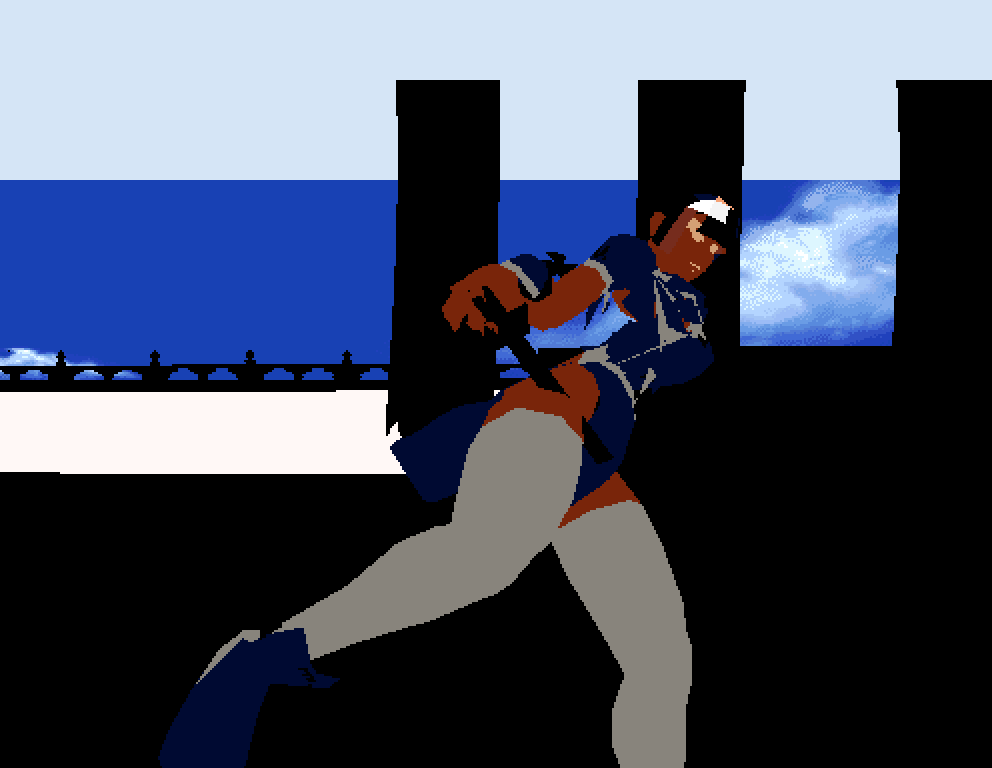
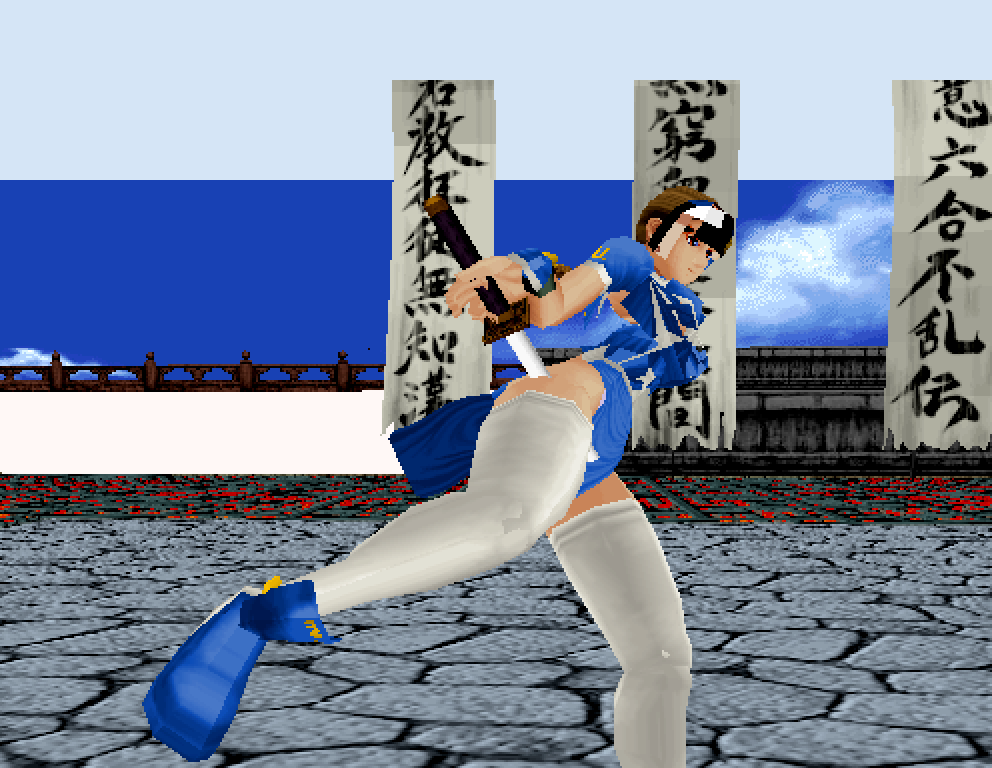
Fix 3D textures: decode luma RAM as half-word-packed array
The 3D layer rendered flat-shaded because every textured pixel resolved to
luma index 0. Luma RAM (0x11400000-0x1140ffff) was mapped as a plain byte
window, but the Model 2B aperture is umask16(0x00ff): one byte per 16-bit
half-word. The i960 writes luma as words, so values landed on even offsets
with zeros interleaved and the renderer's contiguous read
`lumaram[lumabase + (t >> 1)]` always returned 0.

Decode luma explicitly in the read/write entry points with index
`(addr - base) >> 1`, keep the aperture BURST-flagged (as MAME does), and
leave it out of the generic byte-window map. Textured polygons now sample
real luma curves: the 3D layer goes from 10 to 703 unique colors and the
composited title frame from 25 to 718.

Also:
- scripts/fetch_assets.sh no longer downloads doa.zip; users supply their
  own legally obtained ROM set.
- README.md / ROADMAP.md: mark Milestones 6 (3D engine) and 7 (SCSP sound)
  complete; refresh layout and asset notes.
- docs/screenshots/doa_3d_title.png regenerated with textured models.

diff --git a/src/bus.cpp b/src/bus.cpp
@@ -48,6 +48,11 @@ constexpr std::size_t kBackupSize = 0x00004000;
 constexpr std::size_t kCpuCtlSize = 0x00000038;
 constexpr std::size_t kProtSize = 0x00008000;
 constexpr std::size_t kTextureSize = 0x00100000;  // mirrored across 0x100000
+// Luma RAM: the 0x11400000-0x1140ffff aperture is mapped umask16(0x00ff), so one
+// byte is stored per 16-bit half-word and the array index is the byte offset >> 1.
+// The renderer indexes it as `lumaram[lumabase + (t >> 1)]`, so the packed array
+// is 0x8000 bytes (MAME: `make_unique_clear<u8[]>(0x8000)`).
+constexpr std::size_t kLumaSpan = 0x00010000;
 
 // The i960 on the Model 2 CPU board runs from a 50 MHz crystal divided by two.
 constexpr std::uint32_t kCpuClock = 25'000'000;
@@ -308,10 +313,10 @@ std::uint8_t* Bus::map(std::uint32_t addr, std::size_t len, bool& writable) cons
                ((addr - kTexture1Base) % m_textureram1.size());
     }
 
-    if (in_range(addr, len, kLumaBase, m_luma.size())) {
-        writable = true;
-        return const_cast<std::uint8_t*>(m_luma.data()) + (addr - kLumaBase);
-    }
+    // Luma RAM is deliberately not mapped here: its 16-bit aperture packs one
+    // byte per half-word (umask16(0x00ff)), so a plain byte window would put the
+    // game's word writes at every other offset and the renderer would read
+    // zeros. It is decoded explicitly in the read/write entry points instead.
 
     if (std::uint8_t* p = m_video.map(addr, len)) {
         writable = true;  // all video apertures are RAM
@@ -522,6 +527,13 @@ void Bus::watch_log(char op, std::uint32_t addr, std::uint32_t data) const {
 }
 
 std::uint8_t Bus::raw_read8(std::uint32_t addr) const {
+    // Luma RAM: umask16(0x00ff) over a 0x10000-byte aperture packs one byte per
+    // 16-bit half-word, so the array index is the byte offset >> 1.
+    if (addr >= kLumaBase && addr < kLumaBase + kLumaSpan) {
+        const std::size_t idx = (addr - kLumaBase) >> 1;
+        return idx < m_luma.size() ? m_luma[idx] : 0;
+    }
+
     bool w = false;
     if (const std::uint8_t* p = map(addr, 1, w))
         return *p;
@@ -546,6 +558,12 @@ std::uint8_t Bus::read8(std::uint32_t addr) const {
 
 std::uint16_t Bus::read16(std::uint32_t addr) const {
     watch_log('R', addr, 0);
+
+    // Luma RAM: one byte per 16-bit half-word, returned in the low lane.
+    if (addr >= kLumaBase && addr < kLumaBase + kLumaSpan) {
+        const std::size_t idx = (addr - kLumaBase) >> 1;
+        return idx < m_luma.size() ? m_luma[idx] : 0;
+    }
 
     // 317-0229 registers overlay the tail of the protection source RAM window,
     // so they must be decoded before the RAM fallback (matches MAME's
@@ -576,6 +594,15 @@ std::uint32_t Bus::read32(std::uint32_t addr) const {
     watch_log('R', addr, 0);
     if (m_trace) ++m_read_hist[addr & 0xfffc0000];
 
+    // Luma RAM: umask16(0x00ff) means a 32-bit access gathers two 16-bit
+    // half-word reads, each one byte in its low lane.
+    if (addr >= kLumaBase && addr < kLumaBase + kLumaSpan) {
+        const std::size_t idx = (addr - kLumaBase) >> 1;
+        const std::uint32_t lo = idx < m_luma.size() ? m_luma[idx] : 0;
+        const std::uint32_t hi = idx + 1 < m_luma.size() ? m_luma[idx + 1] : 0;
+        return lo | (hi << 16);
+    }
+
     if (addr >= kCoproFifoBase && addr < kCoproFifoBase + 0x4000)
         return copro_fifo_r();
 
@@ -603,6 +630,12 @@ std::uint32_t Bus::read32(std::uint32_t addr) const {
 void Bus::write8(std::uint32_t addr, std::uint8_t val) {
     if (m_trace) ++m_write_hist[addr & 0xfffc0000];
     watch_log('W', addr, val);
+    if (addr >= kLumaBase && addr < kLumaBase + kLumaSpan) {
+        const std::size_t idx = (addr - kLumaBase) >> 1;
+        if (idx < m_luma.size())
+            m_luma[idx] = val;
+        return;
+    }
     bool w = false;
     if (std::uint8_t* p = map(addr, 1, w)) {
         if (w) {
@@ -640,6 +673,14 @@ void Bus::write8(std::uint32_t addr, std::uint8_t val) {
 void Bus::write16(std::uint32_t addr, std::uint16_t val) {
     watch_log('W', addr, val);
 
+    // Luma RAM: one byte per 16-bit half-word (umask16(0x00ff)).
+    if (addr >= kLumaBase && addr < kLumaBase + kLumaSpan) {
+        const std::size_t idx = (addr - kLumaBase) >> 1;
+        if (idx < m_luma.size())
+            m_luma[idx] = static_cast<std::uint8_t>(val);
+        return;
+    }
+
     // Protection registers overlay the source RAM window; decode them first.
     if (addr >= kProtBase + 0x7ff4 && addr < kProtBase + 0x7ff8) {
         m_protection.table_w((addr - (kProtBase + 0x7ff4)) >> 1, val);
@@ -665,6 +706,17 @@ void Bus::write16(std::uint32_t addr, std::uint16_t val) {
 
 void Bus::write32(std::uint32_t addr, std::uint32_t val) {
     watch_log('W', addr, val);
+
+    // Luma RAM: one byte per 16-bit half-word (umask16(0x00ff)). A 32-bit store
+    // covers two half-words, so it writes two consecutive entries.
+    if (addr >= kLumaBase && addr < kLumaBase + kLumaSpan) {
+        const std::size_t idx = (addr - kLumaBase) >> 1;
+        if (idx < m_luma.size())
+            m_luma[idx] = static_cast<std::uint8_t>(val);
+        if (idx + 1 < m_luma.size())
+            m_luma[idx + 1] = static_cast<std::uint8_t>(val >> 16);
+        return;
+    }
 
     // Protection registers overlay the source RAM window; decode them first.
     if (addr >= kProtBase + 0x7ff0 && addr < kProtBase + 0x7ff4) {
@@ -762,6 +814,9 @@ bool Bus::burst(std::uint32_t addr) const {
     // both qualify; otherwise ldq/stq fold onto a single word.
     if (addr >= kGeoPrgBase && addr < kGeoPrgBase + 0x4000) return true;
     if (addr >= kCoproFunctionBase && addr < kCoproFunctionBase + 0x4000) return true;
+    // Luma RAM is flagged BURST in MAME; it is decoded outside map(), so it must
+    // be listed here explicitly.
+    if (addr >= kLumaBase && addr < kLumaBase + kLumaSpan) return true;
     // The CPU wait-state block is the one plain-RAM aperture MAME leaves non-BURST.
     if (addr >= kCpuCtlBase && addr < kCpuCtlBase + kCpuCtlSize) return false;
     bool w = false;

diff --git a/include/sage/bus.h b/include/sage/bus.h
@@ -199,7 +199,7 @@ private:
     std::vector<std::uint8_t> m_bufferram;    // 0x00900000 (128 KiB, 0x80000-mirrored)
     std::vector<std::uint8_t> m_cpu_ctl;      // 0x00e00000 (0x38)
     std::vector<std::uint8_t> m_prot_ram;     // 0x01d80000 (32 KiB, 0229 source window)
-    std::vector<std::uint8_t> m_luma;         // 0x11400000 (32 KiB)
+    std::vector<std::uint8_t> m_luma;         // 0x11400000 (0x8000 entries, one byte per halfword)
     std::vector<std::uint8_t> m_textureram0;  // 0x11000000 (1 MiB, 0x100000-mirrored)
     std::vector<std::uint8_t> m_textureram1;  // 0x11200000 (1 MiB, 0x100000-mirrored)
 

diff --git a/README.md b/README.md
@@ -3,9 +3,11 @@
 A modern C++20 emulator project. The first target is **Dead or Alive** on Sega
 **Model 2B** hardware (i960 main CPU + 315-5881 GPU + SCSP sound).
 
-This initial milestone implements the **ROM loader**: it parses a MAME-compatible
-`doa.zip` and assembles the game's memory regions exactly the way MAME's
-`ROM_START( doa )` / `ROM_START( doab )` in `src/mame/sega/model2.cpp` describe.
+Current status: Dead or Alive boots, the dual-CPU (i960 + ADSP-21062 SHARC)
+pipeline runs with FIFO backpressure, the System 24 2D tilemap/text layers
+render, and the 3D engine rasterizes textured characters and arenas at 60 FPS.
+The Yamaha YMF292-F (SCSP) + 68EC000 sound board is implemented. See
+[`ROADMAP.md`](ROADMAP.md) for the milestone list.
 
 ## 📸 Screenshots
 
@@ -20,17 +22,22 @@ SAGE/
 │   ├── rom_loader.h        RomLoader interface
 │   ├── types.h             Region / RomVerify / LoadReport
 │   ├── bus.h               Model 2B memory interconnect
-│   └── cpu/i960.h          standalone i960 CPU + disassembler
+│   ├── geometry.h          Model 2 3D geometry + rasterizer
+│   ├── video.h             System 24 2D tilemap / palette / scanout
+│   ├── display.h           SDL2 window / present
+│   ├── cpu/                i960, m68000 (68EC000), sharc
+│   └── hw/                 SCSP, SCSP DSP, i8251, sound board
 ├── src/
-│   ├── main.cpp            CLI, status tables, boot trace
+│   ├── main.cpp            CLI, status tables, boot trace, frame loop
 │   ├── rom_loader.cpp      ROM table + load/verify implementation
 │   ├── bus.cpp             address decoding + RAM/ROM
-│   └── cpu/
-│       ├── i960.cpp        instruction interpreter
-│       └── i960dis.cpp     instruction disassembler
-├── scripts/fetch_assets.sh downloads references + doa.zip
+│   ├── geometry.cpp        display-list parse + scanline texture rasterizer
+│   ├── video.cpp           2D tilemaps + palette decoding
+│   ├── cpu/                i960, m68000, sharc cores
+│   └── hw/                 sound_board, scsp, scsp_dsp, i8251
+├── scripts/fetch_assets.sh downloads references (no ROMs)
 ├── references/             MAME sources + Supermodel (git-ignored)
-└── roms/                   doa.zip (git-ignored)
+└── roms/                   doa.zip (git-ignored, user-supplied)
 ```
 
 ## Fetching assets
@@ -39,8 +46,10 @@ SAGE/
 ./scripts/fetch_assets.sh      # or: cmake --build build --target fetch-assets
 ```
 
-This pulls the MAME Model 2 driver sources, a shallow clone of Supermodel
-(architecture reference), and `roms/doa.zip` from the Internet Archive.
+This pulls the MAME Model 2 driver sources and a shallow clone of Supermodel
+(architecture reference). It does **not** download game ROMs: Dead or Alive is
+copyrighted material, so supply your own legally obtained `doa.zip` (a
+MAME-compatible `doa` set) at `roms/doa.zip` before running.
 
 ## Build and run
 

diff --git a/ROADMAP.md b/ROADMAP.md
@@ -26,20 +26,23 @@
 ---
 
 ## 🎨 Phase 2: Complete Video Pipeline & Presentation
-- [x] **Milestone 5: 2D Video Engine & Palette Decoding (Current)**
+- [x] **Milestone 5: 2D Video Engine & Palette Decoding**
   - Palette RAM decoding from raw 16-bit Sega BGR to 32-bit RGBA.
   - Connect Color Translation (`colorxlat`) lookup table.
   - System 24 tilemap planes (Text, Foreground, Background) decoding with correct 16-word stride.
-- [ ] **Milestone 6: 3D Polygon Rasterization Engine**
+- [x] **Milestone 6: 3D Polygon Rasterization Engine**
   - Parse Model 2 3D geometry display lists and vertex buffers.
-  - Hardware-accelerated renderer (Vulkan as default, OpenGL/GLES fallback).
-  - Texture mapping from texture ROMs with bilinear filtering options (no disk `texcache`).
-  - Render full 3D characters, arenas, and lighting.
+  - Software scanline rasterizer with perspective-correct interpolation and Z-buffering.
+  - Texture decal mapping from the `textures` ROM region: texture page, palette/luma
+    lookups, and bilinear filtering with mipmaps. Luma RAM is decoded as a
+    half-word-packed array (`umask16(0x00ff)`), so character faces, costume
+    patterns, and arena walls render textured rather than flat-shaded.
+  - Render full 3D characters, arenas, and lighting at 60 FPS.
 
 ---
 
 ## 🔊 Phase 3: Sound System & Cabinet Inputs
-- [ ] **Milestone 7: Sega SCSP Sound Hardware**
+- [x] **Milestone 7: Sega SCSP Sound Hardware**
   - Motorola 68EC000 sound CPU core integration.
   - Yamaha YMF292-F (SCSP) PCM/FM audio synthesis and DSP effects.
   - Synchronization between main CPU, sound CPU, and audio buffer.
